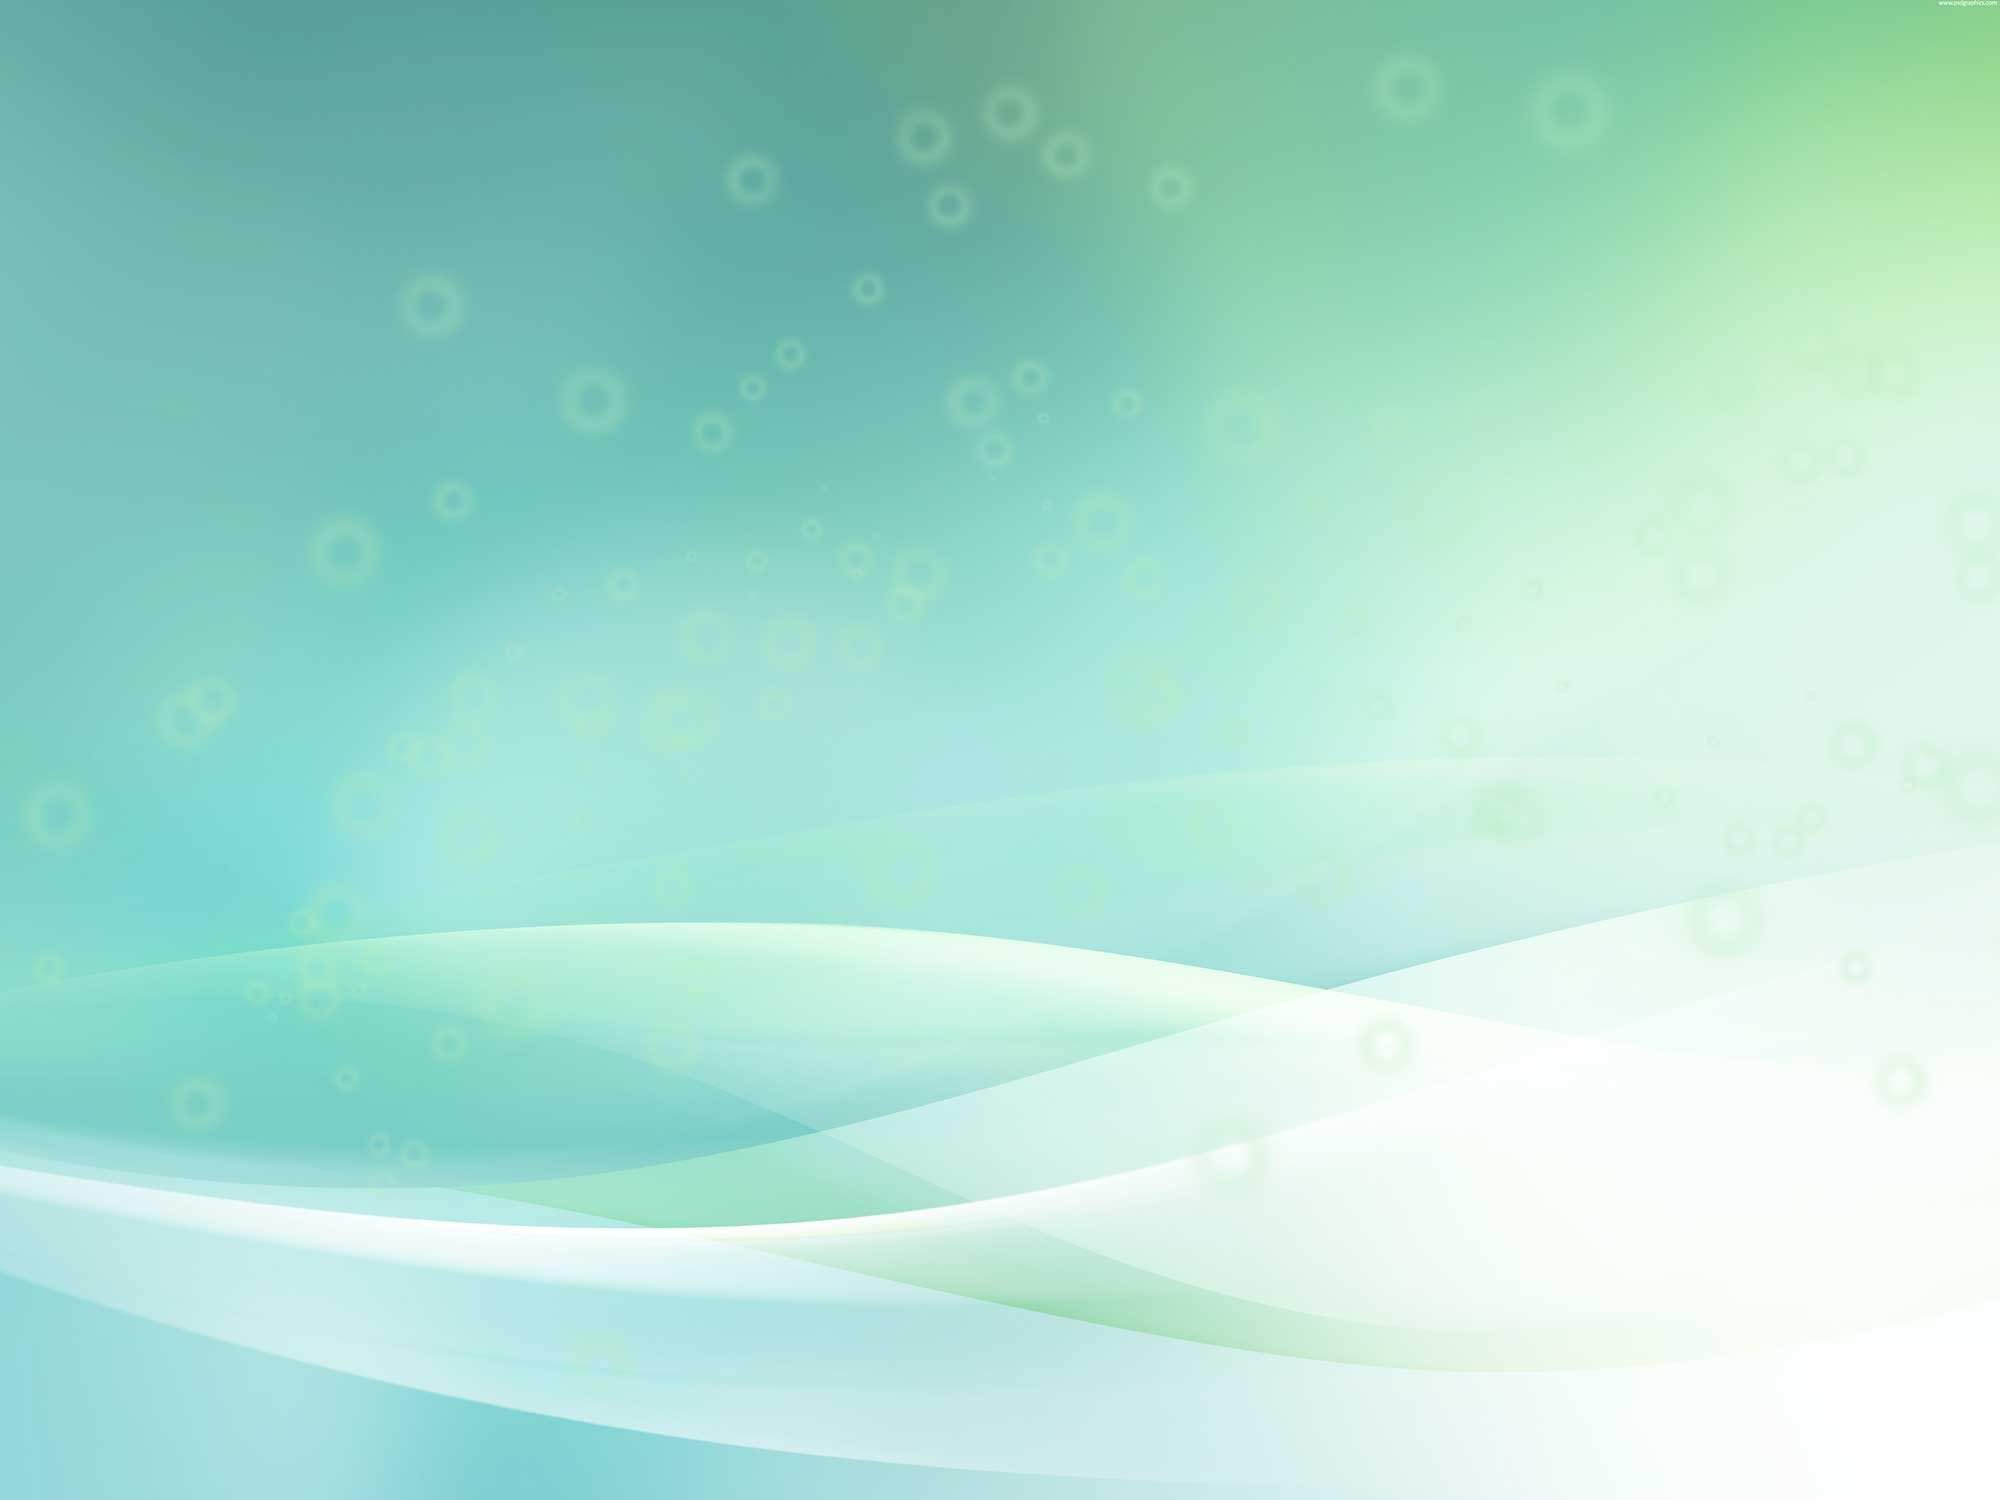
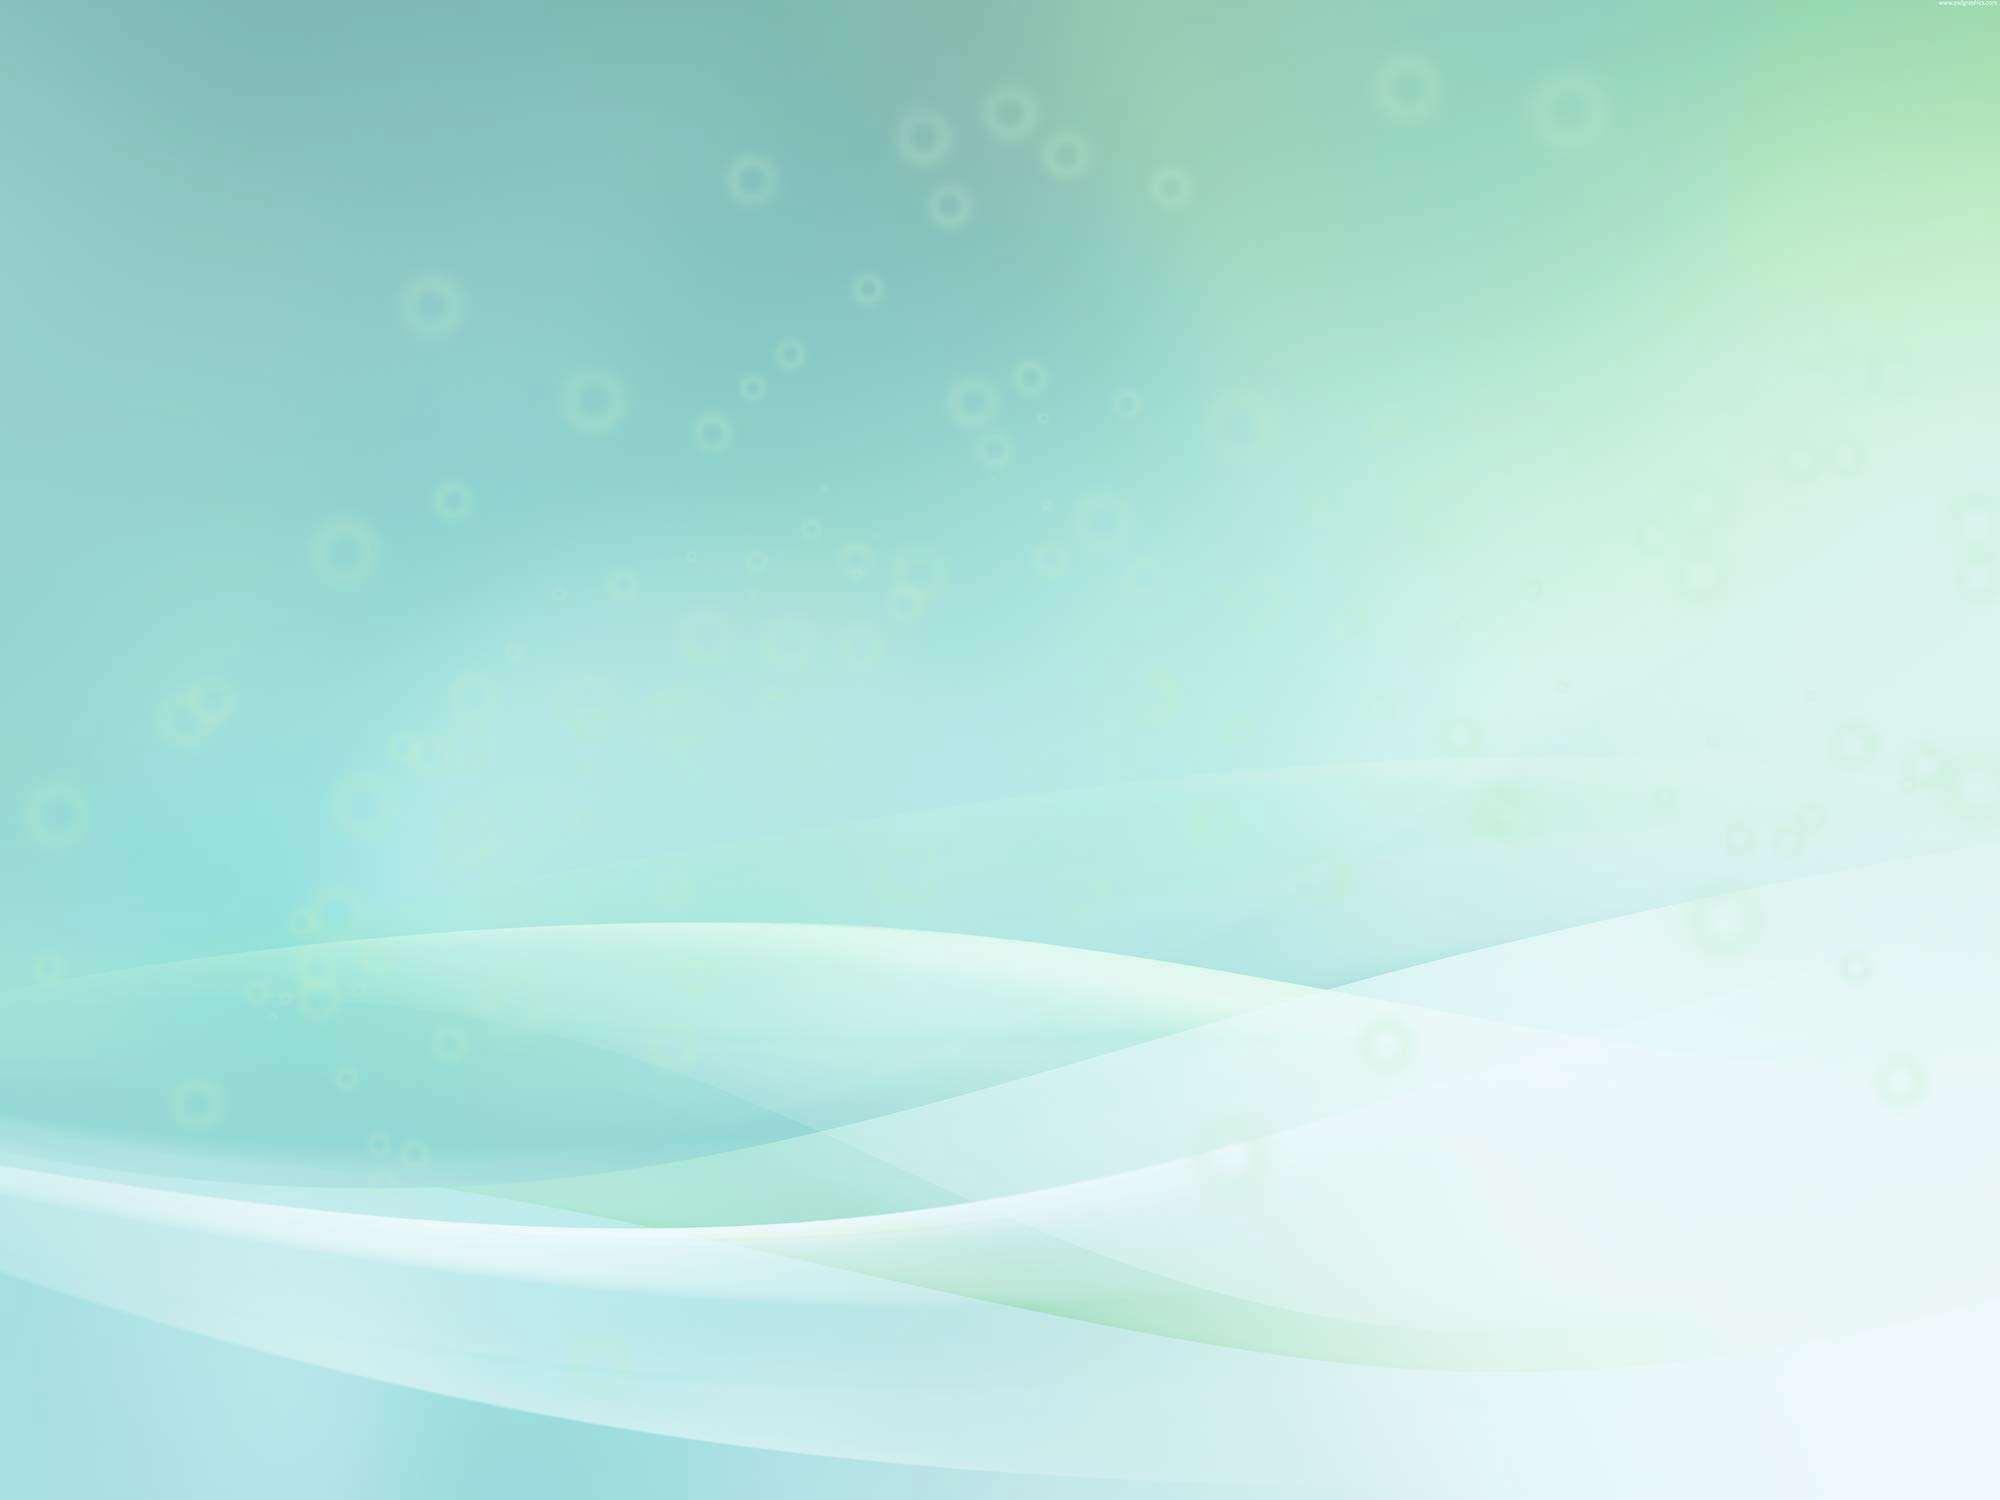
login page style and bg image updates.

Changed region(s): [[0.0, 0.0, 1.0, 0.7973], [0.217, 0.92, 0.31, 1.0]]

diff --git a/HBM/HBM/css/styles.css b/HBM/HBM/css/styles.css
@@ -45,12 +45,12 @@ h3{
 	width:711px;
 	height:42px;
 	font-size:12px;
-	color:#031a16;
-	text-shadow:1px 1px #0f927d;
-	-webkit-text-shadow:1px 1px #0f927d;
-	-moz-text-shadow:1px 1px #0f927d;
-	-ms-text-shadow:1px 1px #0f927d;
-	-o-text-shadow:1px 1px #0f927d;
+	color:#405d60;
+	text-shadow:1px 1px #f8fefe;
+	-webkit-text-shadow:1px 1px #f8fefe;
+	-moz-text-shadow:1px 1px #f8fefe;
+	-ms-text-shadow:1px 1px #f8fefe;
+	-o-text-shadow:1px 1px #f8fefe;
 	text-align:center;
 	padding-top:13px;
 	background:url(../images/login-footer.png) left top no-repeat;
